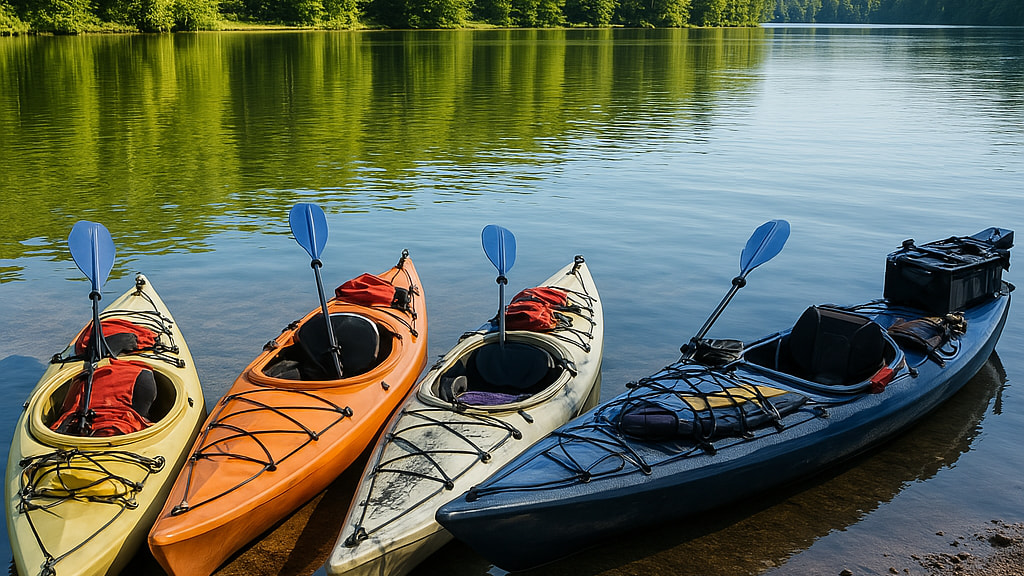
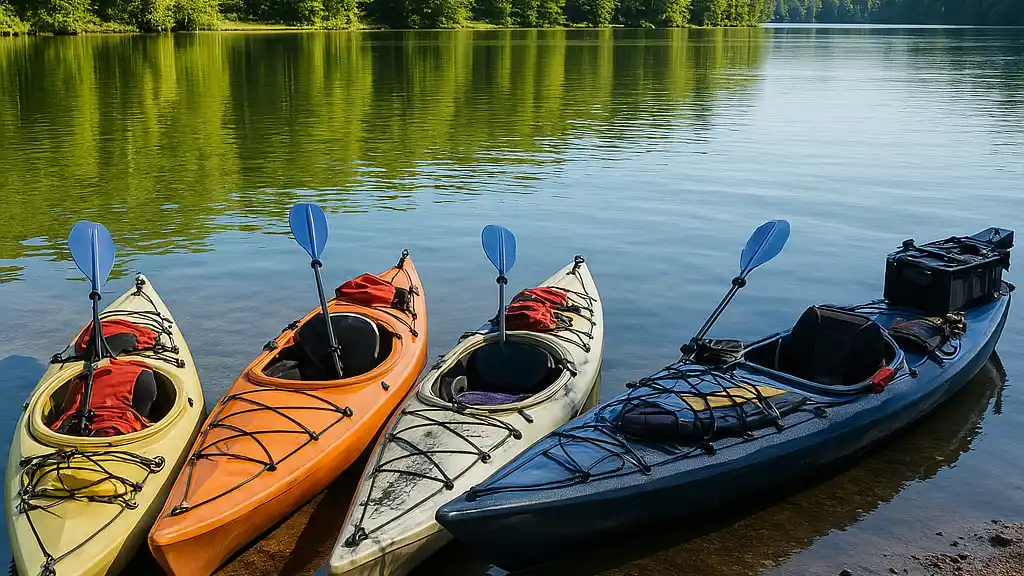
压缩图片

diff --git a/products/guides.html b/products/guides.html
@@ -165,7 +165,7 @@
                         <span><i class="fas fa-signal"></i> Beginner to Advanced</span>
                         <span><i class="fas fa-calendar"></i> All Seasons</span>
                     </p>
-                    <p class="guide-excerpt">Master the art of packing for backcountry adventures with our complete guide to essential gear, weight distribution, and season-specific considerations.</p>
+                    <p class="guide-excerpt"></p>
                     <a href="#" class="btn-primary">Read Full Guide</a>
                 </div>
                 <div class="featured-guide-image">
@@ -174,26 +174,8 @@
             </div>
 
             <div class="guides-grid" id="guides-list">
-                <!-- Guide 1 -->
-                <div class="guide-card" data-category="hiking" data-level="beginner" data-season="spring summer">
-                    <div class="guide-card-img">
-                        <img src="https://images.unsplash.com/photo-1551632811-561732d1e306?ixlib=rb-1.2.1&auto=format&fit=crop&w=800&q=80" alt="Hiking Trails Guide">
-                        <span class="guide-level beginner">Beginner</span>
-                    </div>
-                    <div class="guide-card-content">
-                        <span class="guide-category">Hiking</span>
-                        <h4>Top 10 Day Hiking Trails for Beginners</h4>
-                        <p>Discover the best trails for newcomers with scenic views and manageable terrain.</p>
-                        <div class="guide-meta">
-                            <span><i class="far fa-clock"></i> 10 min read</span>
-                            <span><i class="far fa-calendar-alt"></i> Apr 15, 2025</span>
-                        </div>
-                        <a href="#" class="read-more">Read Guide <i class="fas fa-arrow-right"></i></a>
-                    </div>
-                </div>
 
-                <!-- Guide 2 -->
-                <div class="guide-card" data-category="camping" data-level="intermediate" data-season="summer">
+                <!-- <div class="guide-card" data-category="camping" data-level="intermediate" data-season="summer">
                     <div class="guide-card-img">
                         <img src="https://images.unsplash.com/photo-1537225228614-56cc3556d7ed?ixlib=rb-1.2.1&auto=format&fit=crop&w=800&q=80" alt="Camp Cooking">
                         <span class="guide-level intermediate">Intermediate</span>
@@ -208,10 +190,10 @@
                         </div>
                         <a href="#" class="read-more">Read Guide <i class="fas fa-arrow-right"></i></a>
                     </div>
-                </div>
+                </div> -->
 
-                <!-- Guide 3 -->
-                <div class="guide-card" data-category="climbing" data-level="advanced" data-season="spring fall">
+
+                <!-- <div class="guide-card" data-category="climbing" data-level="advanced" data-season="spring fall">
                     <div class="guide-card-img">
                         <img src="https://images.unsplash.com/photo-1522163182402-834f871fd851?ixlib=rb-1.2.1&auto=format&fit=crop&w=800&q=80" alt="Rock Climbing">
                         <span class="guide-level advanced">Advanced</span>
@@ -226,10 +208,10 @@
                         </div>
                         <a href="#" class="read-more">Read Guide <i class="fas fa-arrow-right"></i></a>
                     </div>
-                </div>
+                </div> -->
 
-                <!-- Guide 4 -->
-                <div class="guide-card" data-category="survival" data-level="intermediate" data-season="all-seasons">
+
+                <!-- <div class="guide-card" data-category="survival" data-level="intermediate" data-season="all-seasons">
                     <div class="guide-card-img">
                         <img src="https://images.unsplash.com/photo-1504851149312-7a075b496cc7?ixlib=rb-1.2.1&auto=format&fit=crop&w=800&q=80" alt="Survival Skills">
                         <span class="guide-level intermediate">Intermediate</span>
@@ -244,10 +226,10 @@
                         </div>
                         <a href="#" class="read-more">Read Guide <i class="fas fa-arrow-right"></i></a>
                     </div>
-                </div>
+                </div> -->
 
-                <!-- Guide 5 -->
-                <div class="guide-card" data-category="fishing" data-level="beginner" data-season="summer">
+
+                <!-- <div class="guide-card" data-category="fishing" data-level="beginner" data-season="summer">
                     <div class="guide-card-img">
                         <img src="https://images.unsplash.com/photo-1516423879646-4274e92c456a?ixlib=rb-1.2.1&auto=format&fit=crop&w=800&q=80" alt="Fly Fishing">
                         <span class="guide-level beginner">Beginner</span>
@@ -262,9 +244,9 @@
                         </div>
                         <a href="#" class="read-more">Read Guide <i class="fas fa-arrow-right"></i></a>
                     </div>
-                </div>
+                </div> -->
 
-                <!-- Guide 6 -->
+<!-- 
                 <div class="guide-card" data-category="kayaking" data-level="intermediate" data-season="summer spring">
                     <div class="guide-card-img">
                         <img src="https://images.unsplash.com/photo-1604537372111-13b49975da20?ixlib=rb-1.2.1&auto=format&fit=crop&w=800&q=80" alt="Kayaking Guide">
@@ -280,10 +262,10 @@
                         </div>
                         <a href="#" class="read-more">Read Guide <i class="fas fa-arrow-right"></i></a>
                     </div>
-                </div>
+                </div> -->
 
-                <!-- Guide 7 -->
-                <div class="guide-card" data-category="gear" data-level="beginner" data-season="all-seasons">
+
+                <!-- <div class="guide-card" data-category="gear" data-level="beginner" data-season="all-seasons">
                     <div class="guide-card-img">
                         <img src="https://images.unsplash.com/photo-1600185365483-26d7a4cc7519?ixlib=rb-1.2.1&auto=format&fit=crop&w=800&q=80" alt="Gear Maintenance">
                         <span class="guide-level beginner">Beginner</span>
@@ -298,10 +280,10 @@
                         </div>
                         <a href="#" class="read-more">Read Guide <i class="fas fa-arrow-right"></i></a>
                     </div>
-                </div>
+                </div> -->
 
-                <!-- Guide 8 -->
-                <div class="guide-card" data-category="camping" data-level="expert" data-season="winter">
+
+                <!-- <div class="guide-card" data-category="camping" data-level="expert" data-season="winter">
                     <div class="guide-card-img">
                         <img src="https://images.unsplash.com/photo-1515444744559-7be63e1600de?ixlib=rb-1.2.1&auto=format&fit=crop&w=800&q=80" alt="Winter Camping">
                         <span class="guide-level expert">Expert</span>
@@ -316,7 +298,7 @@
                         </div>
                         <a href="#" class="read-more">Read Guide <i class="fas fa-arrow-right"></i></a>
                     </div>
-                </div>
+                </div> -->
             </div>
 
             <div class="guides-pagination">

diff --git a/js/guides.js b/js/guides.js
@@ -99,8 +99,58 @@ function renderFeaturedGuides(activityCategories) {
 
 
 
-// 渲染普通文章
-
+// 渲染普通文章（非精选）
+function renderRegularGuides(activityCategories) {
+    const regularItems = activityCategories.filter(
+      item => item["guide-article"] && item["guide-article"].is_featured === false
+    );
+  
+    const container = document.getElementById('guides-list');
+    if (!container) return;
+  
+    // 清空现有 guide-card 元素
+    container.innerHTML = '';
+  
+    // 遍历并动态创建每个 guide-card
+    regularItems.forEach(item => {
+      const article = item["guide-article"];
+      const title = article.title || '';
+      const excerpt = article.content?.sections?.[0]?.body || '';
+      const imageUrl = article.content?.img || '';
+      const articleUrl = article.url || '#';
+      const category = article.categories?.[0] || 'General';
+      const level = article.level || 'beginner';
+      const rawDate = article.created_at;
+        const date = rawDate ? rawDate.split('T')[0] : 'TBD';
+      const readTime = article.duration_minutes || '— min read';
+  
+      const cardHTML = `
+        <div class="guide-card animated" data-category="${category.toLowerCase()}" data-level="${level.toLowerCase()}" data-season="spring summer" style="opacity: 1; transform: translateY(0px); transition: opacity 0.5s, transform 0.5s;">
+          <div class="guide-card-img">
+              <img src="${imageUrl}" alt="${title}">
+              <span class="guide-level ${level.toLowerCase()}">${capitalize(level)}</span>
+          </div>
+          <div class="guide-card-content">
+              <span class="guide-category">${category}</span>
+              <h4>${title}</h4>
+              <p>${excerpt}</p>
+              <div class="guide-meta">
+                  <span><i class="far fa-clock"></i> ${readTime} min read</span>
+                  <span><i class="far fa-calendar-alt"></i> ${date}</span>
+              </div>
+              <a href="${articleUrl}" class="read-more" aria-label="Read guide: ${title}">Read Guide <i class="fas fa-arrow-right"></i></a>
+          </div>
+        </div>
+      `;
+  
+      container.insertAdjacentHTML('beforeend', cardHTML);
+    });
+  
+    // 辅助函数：首字母大写
+    function capitalize(str) {
+      return str.charAt(0).toUpperCase() + str.slice(1);
+    }
+  }
 
 
 
@@ -137,6 +187,7 @@ async function loadGuideCategories() {
 
         // 渲染精选文章
         renderFeaturedGuides(data.activityCategories);
+        renderRegularGuides(data.activityCategories)
 
     } catch (error) {
         console.error('Error loading categories:', error);

diff --git a/css/guides.css b/css/guides.css
@@ -267,6 +267,7 @@
     margin-bottom: 1.5rem;
     letter-spacing: 1px;
     text-transform: uppercase;
+    width: 105px;
 }
 
 .featured-guide h3 {
@@ -389,6 +390,8 @@
     line-height: 1.7;
     margin-bottom: 1.25rem;
     flex-grow: 1;
+    height: 100px;
+    overflow-y: hidden;
 }
 
 .guide-card .guide-meta {
